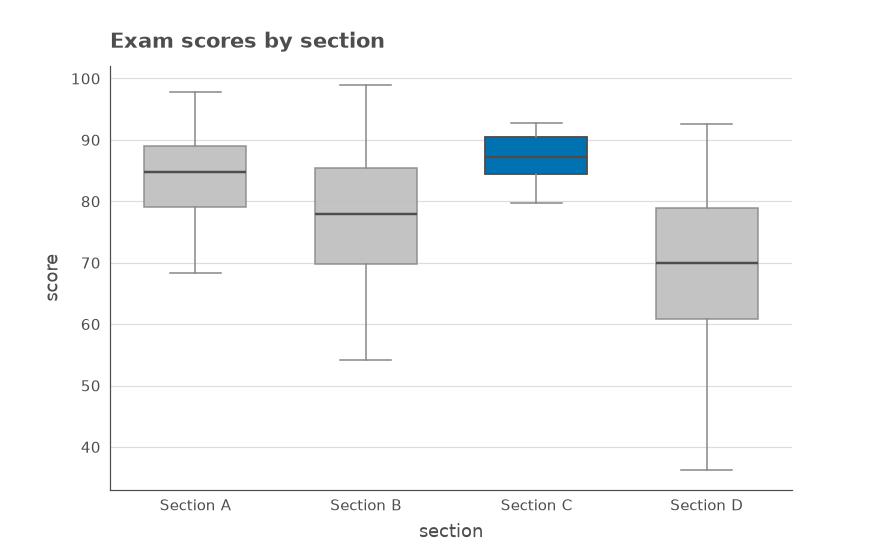
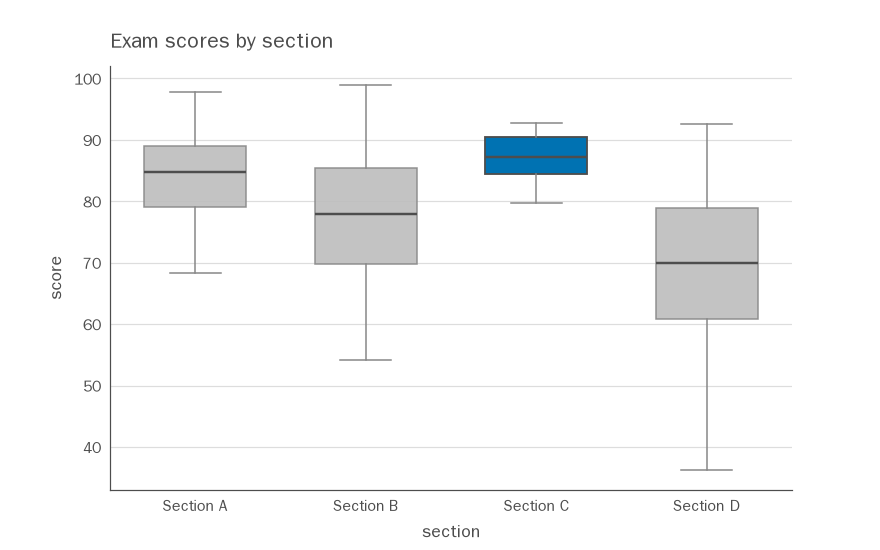
Add named theme style with CJK (Chinese) text support
- Move the theme into cleanplot.mplstyle (single source of truth) and load
  it in theme.py; register it as a named style so plt.style.use("cleanplot")
  works after import
- Add CJK-capable font fallback + axes.unicode_minus=False so Chinese (and
  other non-Latin) labels render instead of blank "tofu" boxes
- Stamp the theme font onto the text artists boxplot creates, so non-Latin
  text survives to draw time (fonts resolve at draw, after the style context
  has exited on the user's later savefig)
- Tests for named-style registration, CJK font stamping, and unicode-minus
- README: document plt.style.use, Chinese labels, and the style sheet
- pyproject: ship the .mplstyle as package data

Claude-Session: https://claude.ai/code/session_01HoPvfNzWSb4bZWodumAQL8

diff --git a/src/cleanplot/theme.py b/src/cleanplot/theme.py
@@ -1,80 +1,89 @@
 """The cleanplot default theme.
 
-The theme is expressed as a plain dict of matplotlib ``rcParams``. It strips
+The theme is defined in a matplotlib style sheet, ``cleanplot.mplstyle``, which
+ships alongside this module and is the single source of truth. It strips
 matplotlib's default clutter (top/right spines, heavy gridlines, long tick
-marks), sets generous, legible typography, and installs the colorblind-safe
-categorical palette as the default color cycle.
+marks), sets generous, legible typography, installs the colorblind-safe
+categorical palette as the color cycle, and configures a CJK-capable font
+fallback so Chinese (and other non-Latin) text renders instead of blank boxes.
 
-Two ways to use it:
+Three ways to use it:
 
+* ``plt.style.use("cleanplot")`` — the plain-matplotlib way. Importing
+  ``cleanplot`` registers the style under this name.
 * ``style_context()`` — a context manager that applies the theme only for the
   block it wraps. cleanplot's own chart helpers use this internally, so they
   never mutate your global matplotlib state unexpectedly.
 * ``apply_style()`` — opt in globally for a whole session/script. Reversible
-  with matplotlib's own ``matplotlib.rcdefaults()`` or ``style_context``.
+  with matplotlib's own ``matplotlib.rcdefaults()``.
 """
 
+from pathlib import Path
+
 import matplotlib as mpl
+from matplotlib import style as _mpl_style
 
-from .palette import CATEGORICAL, GRAY_DARK, GRAY_LIGHT
+#: Path to the shipped style sheet.
+STYLE_PATH = Path(__file__).with_name("cleanplot.mplstyle")
 
-#: The theme as matplotlib rcParams. Exposed so users can inspect or tweak it.
-RC_PARAMS = {
-    # --- figure -------------------------------------------------------------
-    "figure.figsize": (8.0, 5.0),
-    "figure.dpi": 110,
-    "figure.facecolor": "white",
-    "savefig.dpi": 200,
-    "savefig.bbox": "tight",
-    "savefig.facecolor": "white",
+#: The theme as matplotlib rcParams, loaded from the style sheet. Exposed so
+#: users can inspect or tweak it. ``use_default_template=False`` keeps only the
+#: keys the style sheet actually sets.
+RC_PARAMS = mpl.rc_params_from_file(STYLE_PATH, use_default_template=False)
 
-    # --- typography ---------------------------------------------------------
-    "font.size": 11,
-    "axes.titlesize": 14,
-    "axes.labelsize": 11.5,
-    "xtick.labelsize": 10,
-    "ytick.labelsize": 10,
-    "legend.fontsize": 10,
+#: The name the style is registered under for ``plt.style.use``.
+STYLE_NAME = "cleanplot"
 
-    # --- color cycle --------------------------------------------------------
-    "axes.prop_cycle": mpl.cycler(color=CATEGORICAL),
 
-    # --- data-ink: spines ---------------------------------------------------
-    "axes.spines.top": False,
-    "axes.spines.right": False,
-    "axes.edgecolor": GRAY_DARK,
-    "axes.linewidth": 0.8,
+def _register_style():
+    """Register the theme in matplotlib's style library as ``cleanplot``.
 
-    # --- data-ink: title / label placement ----------------------------------
-    "axes.titlelocation": "left",
-    "axes.titlepad": 12.0,
-    "axes.titleweight": "bold",
-    "axes.labelpad": 6.0,
-    "axes.labelcolor": GRAY_DARK,
-    "text.color": GRAY_DARK,
+    Makes ``plt.style.use("cleanplot")`` work without knowing the file path.
+    Best-effort and idempotent; safe to call more than once.
+    """
+    try:
+        _mpl_style.library[STYLE_NAME] = dict(RC_PARAMS)
+        # Keep the public ``available`` list in sync.
+        if STYLE_NAME not in _mpl_style.available:
+            _mpl_style.available.append(STYLE_NAME)
+            _mpl_style.available.sort()
+    except Exception:
+        # If matplotlib's internals change, fall back to path-based use; the
+        # rest of cleanplot still works via style_context()/apply_style().
+        pass
 
-    # --- data-ink: gridlines (light, y-only, behind the data) ---------------
-    "axes.grid": True,
-    "axes.grid.axis": "y",
-    "axes.axisbelow": True,
-    "grid.color": GRAY_LIGHT,
-    "grid.linewidth": 0.8,
-    "grid.linestyle": "-",
 
-    # --- data-ink: ticks (short, thin, muted) -------------------------------
-    "xtick.color": GRAY_DARK,
-    "ytick.color": GRAY_DARK,
-    "xtick.major.size": 0.0,
-    "ytick.major.size": 0.0,
-    "xtick.major.width": 0.8,
-    "ytick.major.width": 0.8,
-    "xtick.major.pad": 6.0,
-    "ytick.major.pad": 6.0,
+_register_style()
 
-    # --- legend -------------------------------------------------------------
-    "legend.frameon": False,
-    "legend.borderaxespad": 0.0,
-}
+
+def stamp_fonts(ax):
+    """Pin the theme's font family onto the text artists of ``ax``.
+
+    Font resolution happens at *draw* time, not when text is created. Because
+    cleanplot's helpers style within a temporary rcParams context that has been
+    exited by the time the user calls ``savefig``, the theme's CJK-capable font
+    fallback would otherwise be lost and non-Latin text (e.g. Chinese) would
+    render as blank "tofu" boxes. Stamping the font family directly on the Text
+    artists makes it stick, and preserves matplotlib's per-glyph fallback so
+    Latin text still renders normally.
+    """
+    fam = RC_PARAMS.get("font.sans-serif")
+    if not fam:
+        return
+    fam = list(fam)
+    texts = [ax.xaxis.label, ax.yaxis.label]
+    # Titles: with titlelocation="left" the text lives on the left title slot,
+    # not the centered ax.title, so stamp all three defensively.
+    for attr in ("title", "_left_title", "_right_title"):
+        title = getattr(ax, attr, None)
+        if title is not None:
+            texts.append(title)
+    texts += list(ax.get_xticklabels()) + list(ax.get_yticklabels())
+    legend = ax.get_legend()
+    if legend is not None:
+        texts += list(legend.get_texts())
+    for text in texts:
+        text.set_fontfamily(fam)
 
 
 def style_context(overrides=None):
@@ -88,7 +97,7 @@ def style_context(overrides=None):
     Examples
     --------
     >>> import matplotlib.pyplot as plt
-    >>> from cleanplot.theme import style_context
+    >>> from cleanplot import style_context
     >>> with style_context():
     ...     fig, ax = plt.subplots()
     ...     ax.plot([0, 1], [0, 1])

diff --git a/tests/test_boxplot.py b/tests/test_boxplot.py
@@ -73,6 +73,32 @@ def test_horizontal_orientation():
     plt.close(ax.figure)
 
 
+def test_named_style_registered():
+    # Importing cleanplot registers the theme under a name for plt.style.use.
+    assert cp.STYLE_NAME in plt.style.available
+    assert cp.STYLE_PATH.exists()
+
+
+def test_cjk_font_stamped_on_labels():
+    # The theme font (with CJK fallback) must be pinned onto the text artists
+    # so Chinese labels survive to draw time instead of reverting to a
+    # Latin-only default font.
+    df = pd.DataFrame({"班级": ["甲", "甲", "乙", "乙"], "成绩": [1.0, 2.0, 3.0, 4.0]})
+    ax = cp.boxplot(df, column="成绩", by="班级", title="标题")
+    expected = list(cp.RC_PARAMS["font.sans-serif"])
+    for label in (ax.xaxis.label, ax.yaxis.label):
+        assert list(label.get_fontfamily()) == expected
+    # Title (left-located) must be stamped too.
+    left_title = getattr(ax, "_left_title", None) or ax.title
+    assert list(left_title.get_fontfamily()) == expected
+    plt.close(ax.figure)
+
+
+def test_unicode_minus_disabled_in_theme():
+    # CJK fonts often lack a proper minus glyph; the theme uses ASCII hyphen.
+    assert cp.RC_PARAMS["axes.unicode_minus"] is False
+
+
 if __name__ == "__main__":
     for name, fn in sorted(globals().items()):
         if name.startswith("test_") and callable(fn):

diff --git a/src/cleanplot/boxplot.py b/src/cleanplot/boxplot.py
@@ -17,7 +17,7 @@ import matplotlib.pyplot as plt
 import pandas as pd
 
 from .palette import ACCENT, GRAY, GRAY_DARK, GRAY_MID
-from .theme import style_context
+from .theme import stamp_fonts, style_context
 
 
 def _series_to_groups(data, column, by):
@@ -205,6 +205,11 @@ def boxplot(
 
         if title is not None:
             target_ax.set_title(title)
+
+        # Pin the theme font onto the labels we just created so non-Latin text
+        # (e.g. Chinese) survives to draw time instead of reverting to the
+        # default font and rendering as tofu boxes.
+        stamp_fonts(target_ax)
         return target_ax
 
     # Only wrap figure creation in the theme so we never mutate a user's global

diff --git a/src/cleanplot/__init__.py b/src/cleanplot/__init__.py
@@ -14,7 +14,13 @@ Quick start
 
 from .boxplot import boxplot
 from .palette import CATEGORICAL, SEQUENTIAL, categorical
-from .theme import RC_PARAMS, apply_style, style_context
+from .theme import (
+    RC_PARAMS,
+    STYLE_NAME,
+    STYLE_PATH,
+    apply_style,
+    style_context,
+)
 
 __version__ = "0.1.0"
 
@@ -23,6 +29,8 @@ __all__ = [
     "apply_style",
     "style_context",
     "RC_PARAMS",
+    "STYLE_NAME",
+    "STYLE_PATH",
     "CATEGORICAL",
     "SEQUENTIAL",
     "categorical",

diff --git a/README.md b/README.md
@@ -23,6 +23,9 @@ out clear and honest:
 - **Encode for perception** — favor position/length; use one accent color
   against muted grays instead of a rainbow.
 - **Colorblind-safe by default** — the categorical palette is the Okabe-Ito set.
+- **Reads Chinese (and other non-Latin) text** — the theme ships a CJK-capable
+  font fallback and disables the broken minus glyph, so labels render instead of
+  blank "tofu" boxes.
 - **Honest by default** — sensible axes; nothing gimmicky like gratuitous 3D.
 - **Composable** — helpers accept an optional `ax=` and return the `Axes`; the
   theme is applied in a scoped context, not by silently mutating global state.
@@ -79,31 +82,54 @@ df = pd.DataFrame({"control": [...], "treatment": [...]})
 ax = cp.boxplot(df)          # one box per column, labeled by column name
 ```
 
+### Chinese / non-Latin labels
+
+No extra setup — Chinese column names, titles, and categories just render:
+
+```python
+import pandas as pd
+import cleanplot as cp
+
+df = pd.DataFrame({"班级": [...], "考试成绩": [...]})
+ax = cp.boxplot(df, column="考试成绩", by="班级", title="各班级考试成绩分布")
+```
+
+The theme lists common CJK fonts across macOS / Windows / Linux (PingFang SC,
+Microsoft YaHei, WenQuanYi Zen Hei, Noto Sans CJK, …) and uses the first one
+installed, so this works out of the box on a typical system.
+
 ### Applying the theme to your own matplotlib code
 
-The theme isn't only for cleanplot's helpers. Use it as a scoped context, or
-opt in globally:
+The theme isn't only for cleanplot's helpers. Use it three ways:
 
 ```python
 import matplotlib.pyplot as plt
-import cleanplot as cp
+import cleanplot as cp   # importing registers the "cleanplot" style
 
-# Scoped: only this block is themed.
+# 1) The plain-matplotlib way — apply the named style.
+plt.style.use("cleanplot")
+
+# 2) Scoped: only this block is themed.
 with cp.style_context():
     fig, ax = plt.subplots()
     ax.plot([0, 1, 2], [0, 1, 4])
 
-# Or globally for a whole script (reversible via matplotlib.rcdefaults()).
+# 3) Globally for a whole script (reversible via matplotlib.rcdefaults()).
 cp.apply_style()
 ```
+
+The theme itself is a plain matplotlib style sheet
+(`src/cleanplot/cleanplot.mplstyle`), so it's easy to read and tweak.
 
 ## API (MVP)
 
 | Function | Purpose |
 | --- | --- |
 | `boxplot(data, column=None, by=None, *, ax=None, orient=..., highlight=..., ...)` | Self-labeling box plot from a DataFrame/Series; returns `Axes`. |
+| `plt.style.use("cleanplot")` | Apply the theme the plain-matplotlib way (registered on import). |
 | `apply_style(overrides=None)` | Apply the cleanplot theme to global matplotlib rcParams. |
 | `style_context(overrides=None)` | Context manager applying the theme temporarily. |
+| `STYLE_PATH` | Path to the shipped `cleanplot.mplstyle` style sheet. |
 | `categorical(n=None)` | The colorblind-safe categorical palette (cycled to `n`). |
 | `RC_PARAMS` | The theme as a plain rcParams dict, for inspection/tweaking. |
 
@@ -113,7 +139,8 @@ cp.apply_style()
 msds610_viz/
 ├── src/cleanplot/        # the library
 │   ├── __init__.py       # public API
-│   ├── theme.py          # default theme (rcParams) + style helpers
+│   ├── cleanplot.mplstyle # the theme as a matplotlib style sheet (source of truth)
+│   ├── theme.py          # loads + registers the theme; style helpers
 │   ├── palette.py        # colorblind-safe palette
 │   └── boxplot.py        # the boxplot helper
 ├── data/
